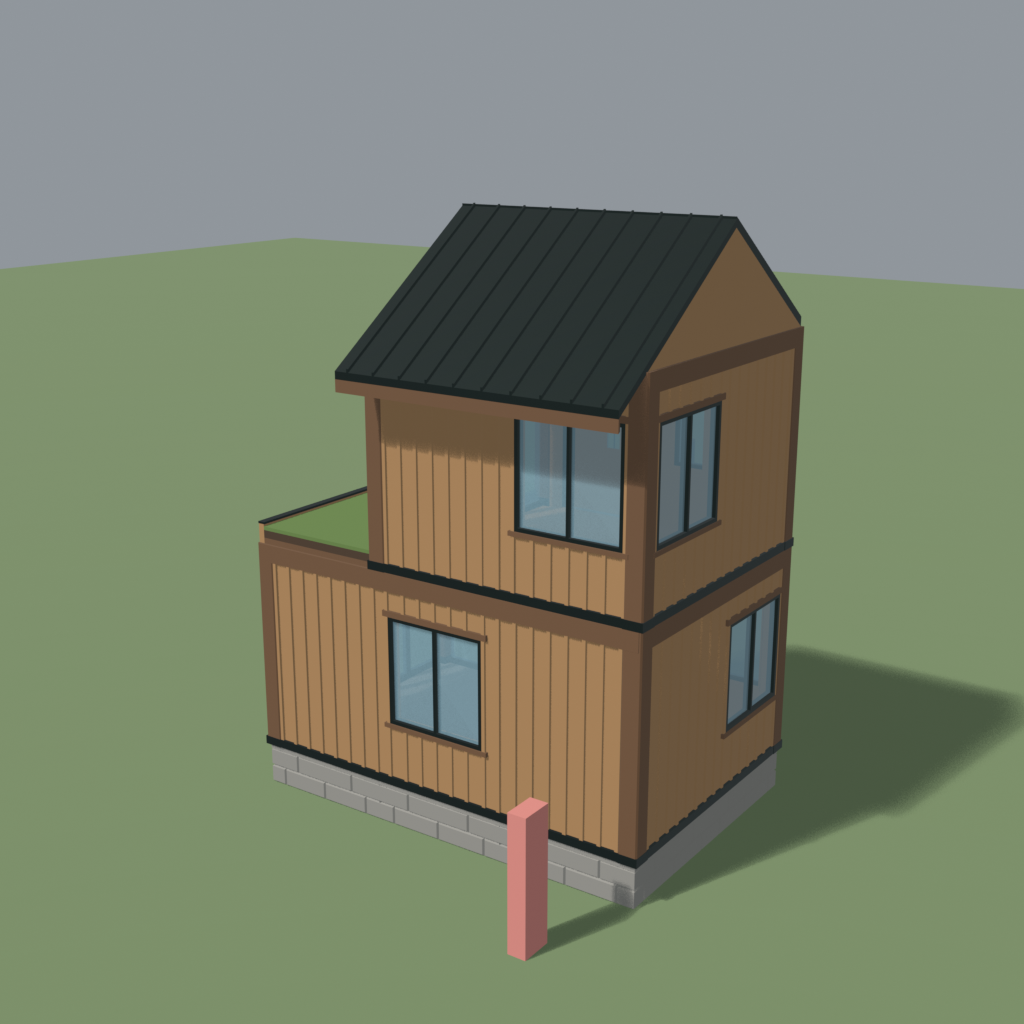
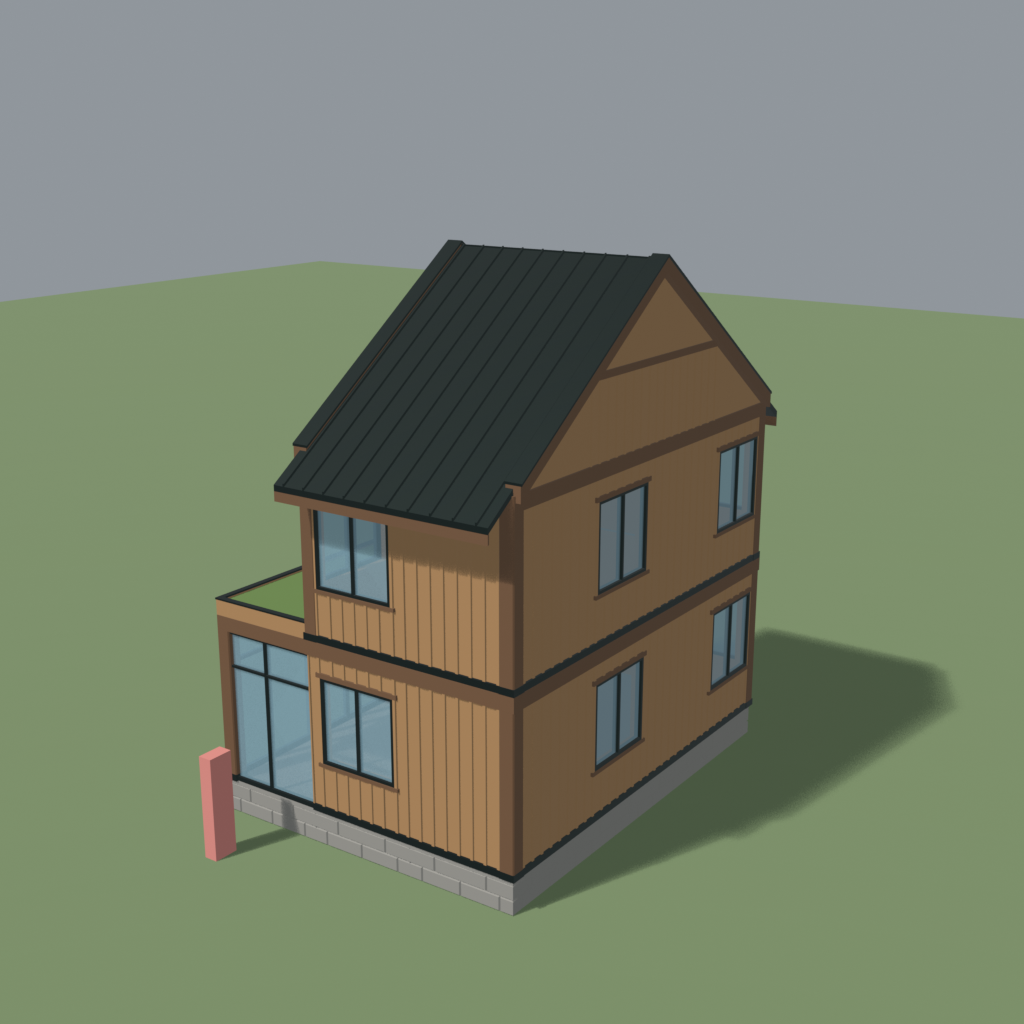
kit: forest family round 2 (gable infill, entry step, solar eave, corners, verge)
Six new outputs: rectangular gable infill stacked at the roof rise (one part serves both
gable ends; the roof wedges keep their own triangles), stone entry step to grade, solar roof
with eave overhang, floor and green-roof corner variants, symmetric rake verge. kit.toml
records the plinth top as the ground floor. Test house is now 8 x 6 m with a two-cell-deep
roof per slope.

Verified by the conductor: separate-process rebuild of all 19 .glb byte-identical; gap check
60 pairs, worst 0.0000 mm; renders reviewed.

Changed region(s): [[0.0, 0.1875, 1.0, 0.9375]]

diff --git a/tools/blender/kit/assemble_test.py b/tools/blender/kit/assemble_test.py
@@ -3,10 +3,9 @@
   Blender --background --factory-startup --python tools/blender/kit/assemble_test.py -- \
       --kit target/kit
 
-Only 2 m steps in plan, 3 m storeys and 90 degree rotations are used (roof
-cells sit on the wall top). Footprint X in [0,4], Y in [0,6]:
-  ground storey 4 x 6; upper storey 4 x 4 (Y 2..6); the 4 x 2 bay at the south
-  end carries a green roof; pitched roof over the upper storey, ridge along Y.
+Only 2 m steps in plan, 3 m storeys and 90 degree rotations are used; roof
+cells sit on the wall top and the second roof row one rise higher. The house
+is described in layout().
 Writes <kit>/previews/_ASSEMBLY_front.png, _ASSEMBLY_back.png and
 <kit>/assembly_report.txt (neighbour gap check).
 """
@@ -26,6 +25,7 @@ if HERE not in sys.path:
 import kitlib  # noqa: E402
 
 P = "BIO_FOR_"
+RISE = 2.0 * math.tan(math.radians(35.0))   # roof_rise_per_cell in kit.toml
 S, E, N, W = 0, 90, 180, 270      # rotation of a part whose outer face looks south/east/north/west
 
 # (part, x, y, z, rotation_deg, group) ; group: wall | cell | other
@@ -37,45 +37,73 @@ def add(part, x, y, z, deg, group):
 
 
 def layout():
-    # foundation and upper floor cells: west column faces W, east column faces E
-    for y in (1, 3, 5):
-        add("FOUNDATION_STONE_A", 0, y, 0, W, "cell")
-        add("FOUNDATION_STONE_A", 4, y, 0, E, "cell")
-    for y in (3, 5):
-        add("FLOOR_A", 0, y, 3, W, "cell")
-        add("FLOOR_A", 4, y, 3, E, "cell")
-    # ground storey walls (counter-clockwise from the SW corner)
-    add("WALL_GLASS_A", 1, 0, 0, S, "wall")
-    add("WALL_GLASS_A", 3, 0, 0, S, "wall")
-    add("WALL_TIMBER_A", 4, 1, 0, E, "wall")
-    add("WALL_TIMBER_WINDOW_A", 4, 3, 0, E, "wall")
-    add("WALL_TIMBER_A", 4, 5, 0, E, "wall")
-    add("WALL_TIMBER_A", 3, 6, 0, N, "wall")
-    add("WALL_TIMBER_WINDOW_A", 1, 6, 0, N, "wall")
-    add("WALL_TIMBER_WINDOW_A", 0, 5, 0, W, "wall")
-    add("WALL_TIMBER_DOOR_A", 0, 3, 0, W, "wall")
-    add("WALL_GLASS_A", 0, 1, 0, W, "wall")
-    for x, y, d in ((0, 0, S), (4, 0, E), (4, 6, N), (0, 6, W)):
+    """Footprint X in [0,8], Y in [0,6]. Ground storey 8 x 6; upper storey 8 x 4
+    (Y 2..6); the 8 x 2 south bay is glazed and carries the green roof. Gable
+    roof over the upper storey, ridge along Y at X=4, two cells deep per slope:
+    solar on the west slope, standing seam on the east."""
+    # the plinth top is the ground-floor surface: no FLOOR part at ground level
+    for x in (1, 3, 5, 7):
+        for y in (0, 2, 4):
+            add("FOUNDATION_STONE_A", x, y, 0, S, "cell:foundation")
+    # ground storey walls, counter-clockwise from the SW corner
+    for x, part in ((1, "WALL_GLASS_A"), (3, "WALL_GLASS_A"), (5, "WALL_GLASS_A"),
+                    (7, "WALL_GLASS_A")):
+        add(part, x, 0, 0, S, "wall")
+    for y, part in ((1, "WALL_GLASS_A"), (3, "WALL_TIMBER_WINDOW_A"), (5, "WALL_TIMBER_A")):
+        add(part, 8, y, 0, E, "wall")
+    for x, part in ((7, "WALL_TIMBER_A"), (5, "WALL_TIMBER_WINDOW_A"), (3, "WALL_TIMBER_A"),
+                    (1, "WALL_TIMBER_WINDOW_A")):
+        add(part, x, 6, 0, N, "wall")
+    for y, part in ((5, "WALL_TIMBER_WINDOW_A"), (3, "WALL_TIMBER_DOOR_A"), (1, "WALL_GLASS_A")):
+        add(part, 0, y, 0, W, "wall")
+    for x, y, d in ((0, 0, S), (8, 0, E), (8, 6, N), (0, 6, W)):
         add("CORNER_TIMBER_A", x, y, 0, d, "other")
-    # upper storey walls, Y in [2,6]
-    add("WALL_GLASS_A", 1, 2, 3, S, "wall")
-    add("WALL_TIMBER_WINDOW_A", 3, 2, 3, S, "wall")
-    add("WALL_TIMBER_A", 4, 3, 3, E, "wall")
-    add("WALL_TIMBER_WINDOW_A", 4, 5, 3, E, "wall")
-    add("WALL_TIMBER_WINDOW_A", 3, 6, 3, N, "wall")
-    add("WALL_TIMBER_A", 1, 6, 3, N, "wall")
-    add("WALL_TIMBER_WINDOW_A", 0, 5, 3, W, "wall")
-    add("WALL_TIMBER_DOOR_A", 0, 3, 3, W, "wall")
-    for x, y, d in ((0, 2, S), (4, 2, E), (4, 6, N), (0, 6, W)):
+    add("ENTRY_STEP_A", 0, 3, 0, W, "other")
+    # upper floor, 4 x 2 cells: corner variants at the four corners
+    add("FLOOR_CORNER_A", 1, 2, 3, S, "cell:floor")
+    add("FLOOR_A", 3, 2, 3, S, "cell:floor")
+    add("FLOOR_A", 5, 2, 3, S, "cell:floor")
+    add("FLOOR_CORNER_A", 8, 3, 3, E, "cell:floor")
+    add("FLOOR_CORNER_A", 7, 6, 3, N, "cell:floor")
+    add("FLOOR_A", 5, 6, 3, N, "cell:floor")
+    add("FLOOR_A", 3, 6, 3, N, "cell:floor")
+    add("FLOOR_CORNER_A", 0, 5, 3, W, "cell:floor")
+    # green roof over the south bay
+    add("ROOF_GREEN_CORNER_A", 1, 0, 3, S, "cell:green")
+    add("ROOF_GREEN_A", 3, 0, 3, S, "cell:green")
+    add("ROOF_GREEN_A", 5, 0, 3, S, "cell:green")
+    add("ROOF_GREEN_CORNER_A", 8, 1, 3, E, "cell:green")
+    # upper storey walls
+    for x, part in ((1, "WALL_TIMBER_WINDOW_A"), (3, "WALL_GLASS_A"), (5, "WALL_GLASS_A"),
+                    (7, "WALL_TIMBER_WINDOW_A")):
+        add(part, x, 2, 3, S, "wall")
+    for y, part in ((3, "WALL_TIMBER_WINDOW_A"), (5, "WALL_TIMBER_A")):
+        add(part, 8, y, 3, E, "wall")
+    for x, part in ((7, "WALL_TIMBER_A"), (5, "WALL_TIMBER_WINDOW_A"), (3, "WALL_TIMBER_A"),
+                    (1, "WALL_TIMBER_WINDOW_A")):
+        add(part, x, 6, 3, N, "wall")
+    for y, part in ((5, "WALL_TIMBER_WINDOW_A"), (3, "WALL_TIMBER_DOOR_A")):
+        add(part, 0, y, 3, W, "wall")
+    for x, y, d in ((0, 2, S), (8, 2, E), (8, 6, N), (0, 6, W)):
         add("CORNER_TIMBER_A", x, y, 3, d, "other")
     add("BALCONY_A", 0, 3, 3, W, "other")
-    # green roof over the south bay, parapet on the south edge
-    add("ROOF_GREEN_A", 1, 0, 3, S, "cell")
-    add("ROOF_GREEN_A", 3, 0, 3, S, "cell")
-    # pitched roof: solar on the west slope, standing seam with eave on the east
+    # roof, two cells deep per slope; row 1 sits one rise higher
     for y in (3, 5):
-        add("ROOF_SOLAR_A", 0, y, 6, W, "cell")
-        add("ROOF_PITCH_EAVE_A", 4, y, 6, E, "cell")
+        add("ROOF_SOLAR_EAVE_A", 0, y, 6, W, "cell:roof")
+        add("ROOF_SOLAR_A", 2, y, 6 + RISE, W, "cell:roof")
+        add("ROOF_PITCH_EAVE_A", 8, y, 6, E, "cell:roof")
+        add("ROOF_PITCH_A", 6, y, 6 + RISE, E, "cell:roof")
+    # gable infill: one panel under each row-1 cell on both gable walls
+    add("GABLE_INFILL_A", 3, 2, 6, S, "wall")
+    add("GABLE_INFILL_A", 5, 2, 6, S, "wall")
+    add("GABLE_INFILL_A", 5, 6, 6, N, "wall")
+    add("GABLE_INFILL_A", 3, 6, 6, N, "wall")
+    # verges: roof cell origin + R*(+-1,0,0), on the two gable planes Y=2 and Y=6
+    for y in (2, 6):
+        add("VERGE_A", 0, y, 6, W, "other")
+        add("VERGE_A", 2, y, 6 + RISE, W, "other")
+        add("VERGE_A", 8, y, 6, E, "other")
+        add("VERGE_A", 6, y, 6 + RISE, E, "other")
 
 
 def place(kit, name, x, y, z, deg):
@@ -98,30 +126,49 @@ def world_bbox(obj):
 
 
 def gap_check(placed, tol=1e-3):
-    """Neighbours in a run (same part group, storey, facing and line, origins 2 m
-    apart): the bounding boxes must meet along the run within tol."""
+    """Bounding boxes of neighbours must meet within tol.
+    walls: same storey, facing and line, origins 2 m apart, tested along the run.
+    cells: same layer, footprint centres 2 m apart along one axis (roof rows may
+    differ by one rise), tested along that axis."""
     lines, worst, bad, pairs = [], 0.0, 0, 0
+
+    def record(kind, axis, a, b, na, nb, where):
+        nonlocal worst, bad, pairs
+        gap = world_bbox(b)[0][axis] - world_bbox(a)[1][axis]
+        pairs += 1
+        worst = max(worst, abs(gap))
+        flag = "ok" if abs(gap) <= tol else "BAD"
+        bad += flag == "BAD"
+        lines.append(f"{flag:3} {kind:16} {where} {na[len(P):]} | {nb[len(P):]}  "
+                     f"gap {gap * 1000:+.4f} mm")
+
     runs = {}
+    cells = []
     for (name, x, y, z, deg, group), obj in placed:
-        if group not in ("wall", "cell"):
-            continue
-        axis = 0 if deg in (S, N) else 1            # run direction in the world
-        line = y if axis == 0 else x
-        runs.setdefault((group, round(z, 3), deg, round(line, 3)), []).append(
-            ((x, y)[axis], name, obj))
+        if group == "wall":
+            axis = 0 if deg in (S, N) else 1
+            line = y if axis == 0 else x
+            runs.setdefault((round(z, 3), deg, round(line, 3)), []).append(
+                ((x, y)[axis], name, obj))
+        elif group.startswith("cell"):
+            r = math.radians(deg)
+            cells.append((group, x - math.sin(r), y + math.cos(r), z, name, obj))
     for key in sorted(runs):
-        axis = 0 if key[2] in (S, N) else 1
+        axis = 0 if key[1] in (S, N) else 1
         run = sorted(runs[key], key=lambda r: r[0])
         for (pa, na, oa), (pb, nb, ob) in zip(run, run[1:]):
-            if abs((pb - pa) - 2.0) > 1e-6:
+            if abs((pb - pa) - 2.0) < 1e-6:
+                record("wall", axis, oa, ob, na, nb, f"z={key[0]:.2f} rot={key[1]:3}")
+    for i, (ga, xa, ya, za, na, oa) in enumerate(cells):
+        for gb, xb, yb, zb, nb, ob in cells[i + 1:]:
+            if ga != gb or abs(za - zb) > (RISE + 1e-6 if ga == "cell:roof" else 1e-6):
                 continue
-            gap = world_bbox(ob)[0][axis] - world_bbox(oa)[1][axis]
-            pairs += 1
-            worst = max(worst, abs(gap))
-            flag = "ok" if abs(gap) <= tol else "BAD"
-            bad += flag == "BAD"
-            lines.append(f"{flag:3} {key[0]:4} z={key[1]:.0f} rot={key[2]:3} "
-                         f"{na[len(P):]} | {nb[len(P):]}  gap {gap * 1000:+.4f} mm")
+            dx, dy = xb - xa, yb - ya
+            for axis, d, other in ((0, dx, dy), (1, dy, dx)):
+                if abs(abs(d) - 2.0) < 1e-6 and abs(other) < 1e-6:
+                    first, second = ((oa, na), (ob, nb)) if d > 0 else ((ob, nb), (oa, na))
+                    record(ga, axis, first[0], second[0], first[1], second[1],
+                           f"z={za:.2f} axis={'XY'[axis]}")
     head = (f"GAPCHECK {'ok' if not bad else 'FAILED'}: {pairs} neighbour pairs, "
             f"{bad} over {tol * 1000:.0f} mm, worst |gap| {worst * 1000:.4f} mm")
     return head, lines, bad
@@ -156,9 +203,9 @@ def main():
                     print("  " + ln)
         # azimuth 0 looks at the south face; 305 = camera in the south-west,
         # 125 = camera in the north-east
-        hx, hy = (-1.4, 0.6) if view == "front" else (5.4, 5.4)
+        hx, hy = (-1.4, 5.0) if view == "front" else (9.2, 1.0)
         kitlib.render_preview(scene, os.path.join(kit, "previews", f"_ASSEMBLY_{view}.png"),
-                              (-1.2, -0.3, -0.6), (5.0, 6.2, 7.6), azimuth_deg=az,
+                              (-1.8, -0.3, -0.6), (9.0, 6.4, 9.2), azimuth_deg=az,
                               elevation_deg=16.0, res=1024, human_at=(hx, hy, -0.6),
                               ground_z=-0.6, lens=50.0)
         print(f"ASSEMBLY rendered {view}")

diff --git a/tools/blender/kit/parts.py b/tools/blender/kit/parts.py
@@ -337,6 +337,121 @@ def column_timber_a():
     return p
 
 
+# ---------------------------------------------------------------------------
+# Round 2
+# ---------------------------------------------------------------------------
+def gable_infill_a():
+    p = Part("BIO_FOR_GABLE_INFILL_A", "other",
+             ((-1.0, -BAT_D, 0.0), (1.0, 0.2, RISE)), (2.0, 0.2, RISE),
+             "wall convention: bottom centre of the outer face; x in [-1,1], outer face "
+             "on y=0, interior +Y; z in [0, roof_rise_per_cell]",
+             notes="RECTANGULAR, one rise tall. The roof wedge already supplies the "
+                   "triangle of every cell, so what a deeper roof leaves open is the "
+                   "rectangle under row k: stack k panels (z = wall top + 0, 1, .. k-1 "
+                   "rises) under each row-k roof cell, on the gable wall line. A triangle "
+                   "would be coplanar with the wedge cheek and would need a mirrored twin")
+    p.box(-1.0, 1.0, 0.0, 0.2, 0.0, RISE, "timber_cladding")
+    for k in range(9):
+        c = -1.0 + 0.25 * k
+        p.box(max(c - BAT_W / 2, -1.0), min(c + BAT_W / 2, 1.0), -BAT_D, 0.0, 0.0, RISE - 0.12,
+              "timber_cladding")
+    # collar band: the battens stop here, the plain wedge cheek starts above it
+    p.box(-1.0, 1.0, -BAT_D, 0.0, RISE - 0.12, RISE, "timber_structure")
+    return p
+
+
+def entry_step_a():
+    tops = [0.0, -0.15, -0.30, -0.45]
+    edge = [0.0, -0.7, -1.0, -1.3, -1.6]
+    slab, nose, foot = 0.05, 0.02, -0.9
+    p = Part("BIO_FOR_ENTRY_STEP_A", "other",
+             ((-1.0, edge[-1] - nose, foot), (1.0, 0.0, 0.0)), (2.0, 1.62, 0.6),
+             "bottom centre of the wall's outer face line at floor level z=0 (same "
+             "transform as the door wall above it); steps project toward -Y",
+             notes="landing 0.7 deep at z=0 then three 0.3 treads, four 0.15 risers down "
+                   "to grade z=-0.6; the body runs 0.3 below grade for slopes")
+    prof = [(0.0, foot), (0.0, tops[0] - slab)]
+    for i, t in enumerate(tops):
+        prof.append((edge[i + 1], t - slab))
+        if i + 1 < len(tops):
+            prof.append((edge[i + 1], tops[i + 1] - slab))
+    prof.append((edge[-1], foot))
+    p.prism(prof, "x", -1.0, 1.0, "stone")
+    for i, t in enumerate(tops):
+        p.box(-1.0, 1.0, edge[i + 1] - nose, edge[i], t - slab, t, "stone")
+    p.socket("planter", (-0.8, -0.35, 0.0), (0.0, 0.0, 1.0))
+    p.socket("planter", (0.8, -0.35, 0.0), (0.0, 0.0, 1.0))
+    return p
+
+
+def roof_solar_eave_a():
+    over, t, proud = 0.6, 0.13, 0.012
+    p = Part("BIO_FOR_ROOF_SOLAR_EAVE_A", "roof_solar",
+             ((-1.0, -over, -over * SLOPE - 0.16), (1.0, 2.0, RISE + t)),
+             (2.0, 2.0 + over, RISE), CELL_ORIGIN + "; eave line on y=0 at the wall top (z=0)",
+             notes="ROOF_SOLAR_A with the 0.6 m eave of ROOF_PITCH_EAVE_A; 3 x 2 longer "
+                   "panels cover the overhang too. Use it for the eave row and "
+                   "ROOF_SOLAR_A for rows above")
+    _roof_base(p, -over, t)
+    gap = 0.06
+    w = (2.0 - 3 * gap) / 3
+    for i in range(3):
+        xa = -1.0 + gap / 2 + i * (w + gap)
+        for ya, yb in ((-over + 0.06, 0.67), (0.73, 1.94)):
+            p.shear_box(xa, xa + w, ya, yb, t, t + proud, SLOPE, "pv")
+    _eave_timber(p, over)
+    return p
+
+
+CORNER_NOTE = ("second finished edge is x=-1, the LEFT end of the outer edge seen from "
+               "outside. Rotation 0 (outer edge facing south) fits the SW corner, 90 "
+               "(east) the SE corner, 180 (north) the NE corner, 270 (west) the NW "
+               "corner: the same rule as BIO_FOR_CORNER_TIMBER_A")
+
+
+def floor_corner_a():
+    p = Part("BIO_FOR_FLOOR_CORNER_A", "other",
+             ((-1.05, -0.05, -0.25), (1.0, 2.0, 0.0)), (2.0, 2.0, 0.25), CELL_ORIGIN,
+             notes="FLOOR_A with the rim beam on two adjacent edges; " + CORNER_NOTE)
+    p.layer_stack(-1.0, 1.0, 0.0, 2.0, [(-0.25, -0.04, "timber_structure"),
+                                        (-0.04, 0.0, "timber_cladding")])
+    p.box(-1.05, 1.0, -0.05, 0.0, -0.25, 0.0, "timber_structure")
+    p.box(-1.05, -1.0, 0.0, 2.0, -0.25, 0.0, "timber_structure")
+    return p
+
+
+def roof_green_corner_a():
+    p = Part("BIO_FOR_ROOF_GREEN_CORNER_A", "other",
+             ((-1.04, -0.04, 0.0), (1.0, 2.0, 0.30)), (2.0, 2.0, 0.30),
+             CELL_ORIGIN + "; underside on the wall top (z=0)",
+             notes="ROOF_GREEN_A with the parapet on two adjacent edges; " + CORNER_NOTE)
+    p.box(-1.03, 1.0, -0.03, 0.06, 0.0, 0.27, "timber_cladding")
+    p.box(-1.03, -0.94, 0.06, 2.0, 0.0, 0.27, "timber_cladding")
+    p.box(-1.04, 1.0, -0.04, 0.07, 0.27, 0.30, "metal_dark")
+    p.box(-1.04, -0.93, 0.07, 2.0, 0.27, 0.30, "metal_dark")
+    p.layer_stack(-0.94, 1.0, 0.06, 2.0, [(0.0, 0.08, "timber_structure"),
+                                          (0.08, 0.19, "soil"), (0.19, 0.24, "sedum")])
+    p.socket("planter", (0.0, 1.0, 0.24), (0.0, 0.0, 1.0))
+    p.socket("vine", (0.0, -0.04, 0.27), (0.0, -1.0, 0.0))
+    p.socket("vine", (-1.04, 1.0, 0.27), (-1.0, 0.0, 0.0))
+    return p
+
+
+def verge_a():
+    p = Part("BIO_FOR_VERGE_A", "other",
+             ((-0.15, 0.0, -0.10), (0.15, 2.0, RISE + 0.19)), (0.30, 2.0, RISE),
+             "the point where a pitched cell's eave line meets the gable plane, at the "
+             "wall top: position = roof cell origin + R*(+-1, 0, 0), same rotation and "
+             "height as that roof cell; slope rises toward +Y",
+             notes="EXCEPTION to the x = +-1 limit: projects 0.15 m outside the gable "
+                   "plane (and 0.15 m back over the roof edge, so one part serves both "
+                   "gable ends without mirroring). Covers y in [0,2] of its cell only: "
+                   "the 0.6 m eave overhang beyond the wall has no verge")
+    p.shear_box(-0.13, 0.13, 0.0, 2.0, -0.10, 0.15, SLOPE, "timber_structure")
+    p.shear_box(-0.15, 0.15, 0.0, 2.0, 0.15, 0.19, SLOPE, "metal_dark")
+    return p
+
+
 PARTS = {
     "BIO_FOR_WALL_TIMBER_A": wall_timber_a,
     "BIO_FOR_WALL_TIMBER_WINDOW_A": wall_timber_window_a,
@@ -351,4 +466,10 @@ PARTS = {
     "BIO_FOR_ROOF_GREEN_A": roof_green_a,
     "BIO_FOR_BALCONY_A": balcony_a,
     "BIO_FOR_COLUMN_TIMBER_A": column_timber_a,
+    "BIO_FOR_GABLE_INFILL_A": gable_infill_a,
+    "BIO_FOR_ENTRY_STEP_A": entry_step_a,
+    "BIO_FOR_ROOF_SOLAR_EAVE_A": roof_solar_eave_a,
+    "BIO_FOR_FLOOR_CORNER_A": floor_corner_a,
+    "BIO_FOR_ROOF_GREEN_CORNER_A": roof_green_corner_a,
+    "BIO_FOR_VERGE_A": verge_a,
 }

diff --git a/tools/blender/kit/build_kit.py b/tools/blender/kit/build_kit.py
@@ -40,6 +40,9 @@ def write_toml(path, rows):
          "# In the .glb the same point (x, y, z) is stored as (x, z, -y) (+Y up).",
          "", "[kit]", 'family = "BIO_FOR"', 'units = "m"', "wall_module = [2.0, 0.2, 3.0]",
          "cell = [2.0, 2.0]", "storey_height = 3.0",
+         'ground_floor = "foundation top, z=0"',
+         'floor_parts = "BIO_FOR_FLOOR_A / BIO_FOR_FLOOR_CORNER_A are for upper storeys only"',
+         'x_limit_exception = "BIO_FOR_VERGE_A projects 0.15 m outside the gable plane (x = +-1 of its roof cell)"',
          f"roof_pitch_deg = {parts.PITCH_DEG}", f"roof_rise_per_cell = {parts.RISE:.5f}",
          f"blender = {tstr(bpy.app.version_string)}",
          'socket_orientation = "local +Z of the socket node points along `normal` (out of the surface)"',
@@ -114,7 +117,7 @@ def main():
                          budget=kitlib.TRI_BUDGET[part.category], **rep))
         if a.previews:
             lo, hi = rep["bbox_min"], rep["bbox_max"]
-            hz = -0.6 if "FOUNDATION" in name else 0.0
+            hz = -0.6 if ("FOUNDATION" in name or "ENTRY_STEP" in name) else 0.0
             eng = kitlib.render_preview(scene, os.path.join(out, "previews", name + ".png"),
                                         lo, hi, human_at=(lo[0] - 0.55, min(lo[1], 0.0) - 0.1, hz))
             print(f"KIT   preview {name} ({eng})")
